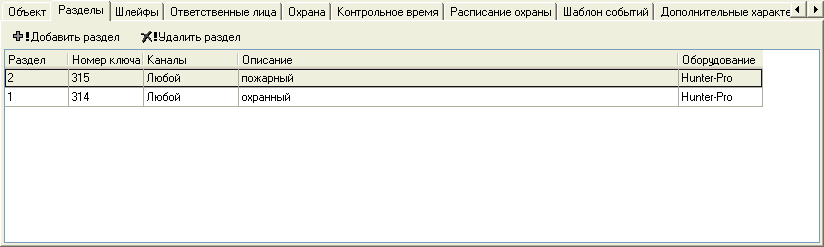
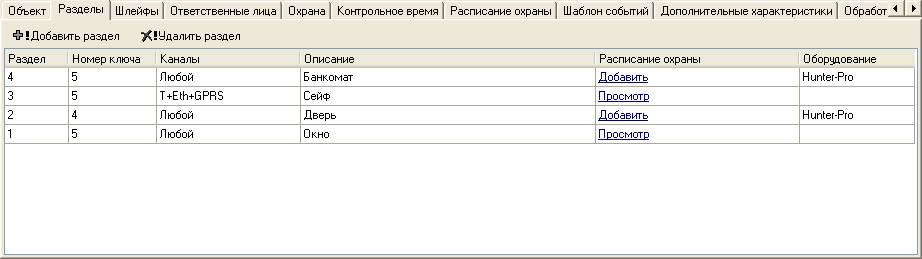
Перезакрытие объектов в главе "Что нового". Расписание охраны.

Changed region(s): [[0.0, 0.1134, 1.0, 0.5668], [0.0, 0.0, 1.0, 0.085], [0.0, 0.9636, 1.0, 0.9919]]

diff --git a/russian/05-object-manager.md b/russian/05-object-manager.md
@@ -187,6 +187,8 @@
 
 Если у программного обеспечения «Центр охраны» есть возможность идентифицировать раздел, по которому получено событие, то описание раздела будет использоваться для формирования описания событий, полученных от объекта: значение, указанное в поле «Описание» будет подставлено в описание события вместо макроса %%part%%.
 
+В поле «Расписание охраны» вкладки «Разделы» для каждого из разделов объекта расположены ссылки «Добавить» или «Просмотр». Ссылка «Добавить» перенаправляет на вкладку «Расписание охраны», где уже выбран соответствующий раздел для составления расписания. Ссылка «Просмотр» доступна в том случае, когда расписание охраны для раздела уже создано. При клике по ссылке «Просмотр» открывается расписание, составленное на вкладке «Расписание охраны».
+
 В качестве значения для поля «Оборудование» можно указать тип объектового оборудования, которое используется для организации раздела. Такая возможность полезна в том случае, если на объекте установлено несколько объектовых приборов.
 Значение для поля «Оборудование» можно выбрать из списка. Изменить содержимое этого списка можно в модуле «Настройка системы» — на вкладке «Поля объектов», поле «Оборудование раздела объекта».
 
@@ -313,41 +315,64 @@
 
 ## Расписание охраны
 
-На вкладке «Расписание охраны» можно указать для каждого дня недели периоды времени, когда объект должен находиться под охраной, а также включить контроль этого правила «Центром охраны».
+На вкладке «Расписание охраны» можно указать для каждого дня недели периоды времени, когда объект или его разделы должны находиться под охраной, а также включить контроль этого правила «Центром охраны».
 
-Для того чтобы иметь возможность вносить изменения в настройки расписания охраны объекта, пользователь должен обладать разрешением «Редактировать расписание» для модуля «Менеджер объектов».
+Для того чтобы иметь возможность вносить изменения в настройки расписания охраны, пользователь должен обладать разрешением «Редактировать расписание» для модуля «Менеджер объектов».
 
 ![Вкладка «Расписание охраны»][id-05-10]
 
-Расписание охраны объекта указывается в таблице, строки которой соответствуют дням недели с понедельника по воскресенье, а столбцы - пятнадцатиминутным интервалам времени суток.
+Составить расписание охраны можно как для всего объекта, так и для каждого из его разделов. По умолчанию на вкладке задан режим «Расписание для всего объекта». Данный режим следует использовать при создании расписания охраны для всего объекта, то есть для всех его разделов. Если расписание охраны нужно составить для одного или нескольких разделов объекта, необходимо воспользоваться выпадающим меню. Здесь представлены все созданные для объекта разделы, каждый из которых можно выбрать для создания отдельного расписания.
 
-Синим цветом залиты ячейки таблицы, обозначающие время, когда объект должен находиться под охраной. Если ячейка залита белым цветом, то объект в указанное время должен быть снят с охраны. Если ячейка залита зеленым цветом, то это значит, что она выбрана пользователем для того, чтобы добавить или удалить интервал охраны.
+Расписание охраны объекта или его разделов указывается в таблице, строки которой соответствуют дням недели с понедельника по воскресенье, а столбцы - тридцатиминутным интервалам времени суток.
 
-Для того чтобы добавить интервал, в течение которого объект должен находиться под охраной, необходимо мышкой начертить четырехугольник, соответствующий нужному интервалу, и нажать на кнопку «Добавить интервал». Для удаления интервала из времени охраны объекта нужно проделать аналогичную операцию, но вместо кнопки «Добавить интервал» нажать на кнопку «Удалить интервал».
+Синим цветом залиты ячейки таблицы, обозначающие время, когда объект или его разделы должны находиться под охраной. Если ячейка залита белым цветом, объект или его разделы в указанное время должны быть сняты с охраны.
 
-Задать параметры контроля расписания можно с помощью кнопки «Контроль расписания...», вызвав окно «Контроль расписания объектов». В данном окне следует указать контролируемые состояния охраняемого объекта, активизировав необходимые чекбоксы. Для сохранения изменений необходимо нажать кнопку «OK».
+Для того чтобы добавить интервал, в течение которого объект или его разделы должны находиться под охраной, необходимо мышкой начертить четырехугольник, соответствующий нужному интервалу. Для удаления интервала из времени охраны объекта или его разделов нужно проделать аналогичную операцию. 
 
-![Вкладка «Расписание охраны»: контроль расписания объектов][id-05-10-1]
+Если начерченный интервал захватит как область синего, так и область белого цвета, появится окно с двумя кнопками - «Добавить» и «Удалить». Если в течение выделенного интервала времени объект или его разделы должны находиться под охраной, необходимо нажать на кнопку «Добавить». Если объект или его разделы должны быть сняты с охраны - кнопку «Удалить».
 
-* «Взятие раньше времени». Данный параметр позволяет получить информацию о том, что объект был взят под охрану раньше, чем это указано в расписании охраны. Если объект преждевременно был взят под охрану, создается системное событие с кодом «ZZWA». Таким образом, руководитель охраняемого предприятия может быть извещен посредством SMS о том, что сотрудники покинули рабочее место ранее положенного времени. 
- 
-* «Нет взятия по расписанию». Данный параметр позволяет получить информацию о том, что объект снят с охраны в то время, как в соответствии с расписанием охраны должен быть взят под охрану. В этом случае создается системное событие «ZZXB», которое будет повторяться с интервалом, заданным параметром «Периодичность тревог расписания охраны», до взятия объекта под охрану или до наступления времени, когда объект может быть снят с охраны. Параметр «Периодичность тревог расписания охраны» задается в настройках модуля «Менеджер событий». 
+![Вкладка «Расписание охраны»: ][id-05-10-01]
 
-* «Позднее взятие». Данный параметр позволяет получить информацию о том, что объект был взят под охрану позже, чем это указано в расписании охраны. Если объект был поздно взят под охрану, создается системное событие с кодом «ZZWB». Таким образом, руководитель охраняемого предприятия может быть извещен посредством SMS о времени задержки сотрудников на рабочем месте. 
+Задать параметры контроля расписания можно с помощью чек-боксов, расположенных внизу вкладки. Активизировав необходимые чек-боксы, можно указать контролируемые состояния охраняемого объекта.
 
-* «Снятие раньше времени». Данный параметр позволяет получить информацию о том, что объект был снят с охраны раньше, чем это указано в расписании охраны. Если объект преждевременно снят с охраны, создается системное событие с кодом «ZZXD».
+![Вкладка «Расписание охраны»: контроль расписания объектов][id-05-10-02]
 
-* «Нет снятия по расписанию». Данный параметр позволяет получить информацию о том, что объект взят под охрану в то время, как в соответствии с расписанием охраны должен быть снят с охраны. В этом случае создается системное событие с кодом «ZZWC». Таким образом, руководитель охраняемого предприятия может быть извещен посредством SMS о том, что сотрудники несвоевременно приходят на рабочее место.
+Контроль взятия под охрану настраивается с помощью следующих параметров, представленных в строке «Взятие»:
 
-* «Позднее снятие». Данный параметр позволяет получить информацию о том, что объект был снят с охраны позже, чем это указано в расписании охраны. Если объект был поздно снят с охраны, создается системное событие с кодом «ZZWD». Таким образом, руководитель охраняемого предприятия может быть извещен посредством SMS о времени снятия объекта с охраны, то есть о времени прихода сотрудников на рабочее место.
+* «Раньше времени». Данный параметр позволяет получить информацию о том, что объект был взят под охрану раньше, чем это указано в расписании охраны. Если объект преждевременно был взят под охрану, создается системное событие с кодом «ZZWA». Таким образом, руководитель охраняемого предприятия может быть извещен посредством SMS о том, что сотрудники покинули рабочее место ранее положенного времени. 
 
-В поле «Допустимое отклонение от расписания охраны (мин)» задается диапазон времени, в течение которого разрешены любые нарушения в расписании объектов (максимальное значение параметра - 60 минут). Например, минус 15 минут от времени взятия под охрану и плюс 15 минут от времени снятия с охраны в расписании объектов.
+* «Позже». Данный параметр позволяет получить информацию о том, что объект был взят под охрану позже, чем это указано в расписании охраны. Если объект был поздно взят под охрану, создается системное событие с кодом «ZZWB». Таким образом, руководитель охраняемого предприятия может быть извещен посредством SMS о времени задержки сотрудников на рабочем месте. 
+
+* «Отсутствует». Данный параметр позволяет получить информацию о том, что объект снят с охраны в то время, как в соответствии с расписанием охраны должен быть взят под охрану. В этом случае создается системное событие «ZZXB», которое будет повторяться с интервалом, заданным параметром «Периодичность тревог расписания охраны», до взятия объекта под охрану или до наступления времени, когда объект может быть снят с охраны. Параметр «Периодичность тревог расписания охраны» задается в настройках модуля «Менеджер событий». 
+
+Контроль снятия с охраны настраивается с помощью следующих параметров, представленных в строке «Снятие»:
+
+* «Раньше времени». Данный параметр позволяет получить информацию о том, что объект был снят с охраны раньше, чем это указано в расписании охраны. Если объект преждевременно снят с охраны, создается системное событие с кодом «ZZXD».
+
+* «Позже». Данный параметр позволяет получить информацию о том, что объект был снят с охраны позже, чем это указано в расписании охраны. Если объект был поздно снят с охраны, создается системное событие с кодом «ZZWD». Таким образом, руководитель охраняемого предприятия может быть извещен посредством SMS о времени снятия объекта с охраны, то есть о времени прихода сотрудников на рабочее место.
+
+* «Отсутствует». Данный параметр позволяет получить информацию о том, что объект взят под охрану в то время, как в соответствии с расписанием охраны должен быть снят с охраны. В этом случае создается системное событие с кодом «ZZWC». Таким образом, руководитель охраняемого предприятия может быть извещен посредством SMS о том, что сотрудники несвоевременно приходят на рабочее место.
+
+В поле, обозначенном иконкой таймера, задается диапазон времени, в течение которого разрешены любые нарушения в расписании объектов (максимальное значение параметра - 30 минут). Например, минус 15 минут от времени взятия под охрану и плюс 15 минут от времени снятия с охраны в расписании объектов.
 
 Предположим, в расписании на охрану объекта отведено время с 21:45 до 09:15. При допустимом отклонении 15 минут взятие на охрану разрешено с 21:30 до 21:45, а снятие с охраны разрешено с 09:15 до 09:30.
 
 По умолчанию события с кодами «ZZXB» и «ZZXD» описаны во всех шаблонах событий как тревоги, то есть требуют регистрации действий оператора по своей отработке и отмене. При необходимости можно изменить описание этого события. О том, как это сделать, можно узнать из главы настоящего описания, посвященной модулю «Настройка системы».
 
 Если в предыдущей версии «Центра охраны» для объекта был установлен контроль расписания объектов охраны, то при обновлении программного обеспечения для него будут активизированы параметры «Нет взятия по расписанию» и «Снятие раньше времени». Остальные параметры контроля расписания объектов будут отключены.
+
+На основе расписания охраны можно создать шаблон расписания охраны. Для этого необходимо составить расписание охраны для объекта или его раздела и нажать кнопку «Новый шаблон». Необходимо заметить, что кнопка «Новый шаблон» доступна для нажатия только в том случае, если в расписание добавлен хотя бы один интервал времени. 
+
+В открывшемся при этом окне «Новый шаблон расписания охраны» приводится используемое для создания шаблона расписание охраны. В данном окне нужно задать название шаблона и нажать кнопку «Создать шаблон». 
+
+![Вкладка «Расписание охраны»: новый шаблон][id-05-10-03]
+
+Чтобы применить шаблон к расписанию охраны для объекта или его раздела, следует 
+выбрать необходимый шаблон в выпадающем меню в поле «Шаблон». 
+
+Шаблон расписания охраны можно редактировать. Для этого необходимо выбрать пункт «Редактировать» выпадающего меню в поле «Шаблон». В открывающемся при этом окне «Редактирование шаблона расписания охраны» представлены все созданные шаблоны. Щелкнув по строке необходимого шаблона, можно ввести новое наименование. Кроме того, шаблон можно удалить, кликнув в строке шаблона по ссылке «Удалить» и подтвердив удаление шаблона.
+
+![Вкладка «Расписание охраны»: редактирование шаблона][id-05-10-04]
 
 ## Шаблон событий
 
@@ -579,8 +604,13 @@
 [id-05-07]: img/ObjMngr-07-DoorKeys.png "Вкладка «Ответственные лица»"
 [id-05-08]: img/ObjMngr-08-Arming.png "Вкладка «Охрана»"
 [id-05-09]: img/ObjMngr-09-ControlTime.png "Вкладка «Контрольное время»"
+
 [id-05-10]: img/ObjMngr-10-ArmSchedule.png "Вкладка «Расписание охраны»"
-[id-05-10-1]: img/ObjMngr-10-ArmSchedule-01.png "Вкладка «Расписание охраны»: контроль расписания объектов"
+[id-05-10-01]: img/ObjMngr-10-ArmSchedule-01.png "Вкладка «Расписание охраны»:"
+[id-05-10-02]: img/ObjMngr-10-ArmSchedule-02.png "Вкладка «Расписание охраны»: контроль расписания объектов"
+[id-05-10-03]: img/ObjMngr-10-ArmSchedule-03.png "Вкладка «Расписание охраны»: новый шаблон"
+[id-05-10-04]: img/ObjMngr-10-ArmSchedule-04.png "Вкладка «Расписание охраны»: редактирование шаблона"
+
 [id-05-11]: img/ObjMngr-11-EventTemplate.png "Вкладка «Шаблон событий»"
 [id-05-11-01]: img/ObjMngr-11-EventTemplate-01.png "Окно «Изменить событие»"
 [id-05-11-02]: img/ObjMngr-11-EventTemplate-02.png "Окно «Отключить событие»"

diff --git a/russian/00-whats-new.md b/russian/00-whats-new.md
@@ -10,7 +10,19 @@
 
 Если на объекте происходят заведомо ложные тревоги систем охранно-пожарной сигнализации (по причине неисправности оборудования, технической неукрепленности объекта, движения животных и др.), можно воспользоваться операцией временного отключения события. Указав срок и причину отключения, дежурный оператор может отключить событие на объекте для того, чтобы не отвлекаться на отработку тревоги. По истечении срока отключения событие включается автоматически, однако оператор может включить событие досрочно. 
 
-Подробно о том, как отключить объект, канал связи или событие можно прочитать в главе, рассказывающей о модуле [«Дежурный оператор»](#duty-opertor-process-alarm).
+Подробно о том, как отключить объект, канал связи или событие можно прочитать в главе, рассказывающей о модуле «Дежурный оператор».
+
+## Перезакрытие объектов
+
+При отработке тревожного сообщения, поступившего с объекта, может потребоваться перезакрытие объекта - вскрытие, осмотр и повторная сдача под охрану после устранения причин срабатывания тревожной сигнализации. Программное обеспечение «Центр охраны» предоставляет возможность автоматически оповещать ответственных по объекту лиц о необходимости перезакрытия объектов, а также об отказе ответственного от перезакрытия.
+
+Ответственное лицо оповещается о необходимости перезакрытия объекта, а также об отказе ответственного от перезакрытия с помощью SMS-сообщений. Разрешить информирование ответственного о той и другой ситуации можно в модуле «Менеджер объектов» на вкладке [«Ответственные лица»](#object-manager-doorkeys).
+
+Оповестить ответственные лица о перезакрытии объекта может как группа быстрого реагирования с помощью приложения «Тревога в ГБР», так и оператор «Центра охраны».
+
+Для того чтобы оператор «Центра охраны» мог оповестить ответственных о перезакрытии объекта, должны быть разрешены такие типы действия, как «Требуется перезакрытие» и «Отказ от перезакрытия». Необходимые настройки можно задать в модуле «Настройки системы» на вкладке [«Действия»](#sistem-setup-actions).
+
+Информирование ответственных лиц о перезакрытии объекта происходит с помощью обработчика событий «Перезакрытие объектов». Данный обработчик генерирует в заданном формате соответствующий типу действия текст сообщений и отправляет SMS ответственным лицам. О настройках обработчика можно прочитать в главе, посвященной модулю [«Менеджер событий»](#event-manager-reclosig).
 
 ## Видеоподтверждения
 

diff --git a/russian/04-event-manager.md b/russian/04-event-manager.md
@@ -694,7 +694,7 @@
 
 При нажатию на кнопку «Переменные» появляется меню, в котором можно выбрать содержимое макроса, который будет добавлен в значение параметра «Формат сообщений». Таким образом, можно не вспоминать правильное написание нужного макроса, а просто выбирать его в списке и добавлять в строку формата.
 
-### Перезакрытие объектов
+### Перезакрытие объектов {#event-manager-reclosig}
 
 Обработчик «Перезакрытие объектов» предназначен для информирования посредством SMS-сообщений ответственных по объекту лиц о перезакрытии объекта. С помощью данного обработчика ответственные оповещаются о необходимости перезакрытия объекта и об отказе ответственных от перезакрытия.
 

diff --git a/russian/06-system-setup.md b/russian/06-system-setup.md
@@ -102,7 +102,7 @@
 	
 	Информация о шлейфах и ответственных лицах на объекте является очень важной. Внести эту информацию для объекта можно в модуле «Менеджер объектов».
 
-## Действия
+## Действия {#sistem-setup-actions}
 
 ![Вкладка «Действия»][id-06-06]
 

diff --git a/russian/09-duty-operator.md b/russian/09-duty-operator.md
@@ -166,7 +166,7 @@
 
 На вкладке «Тревоги» отображаются тревожные события, отработка которых еще не завершена. 
 
-### События по объект
+### События по объекту
 
 ![Окно «События», вкладка «События по объекту»][id-09-03-03]
 
